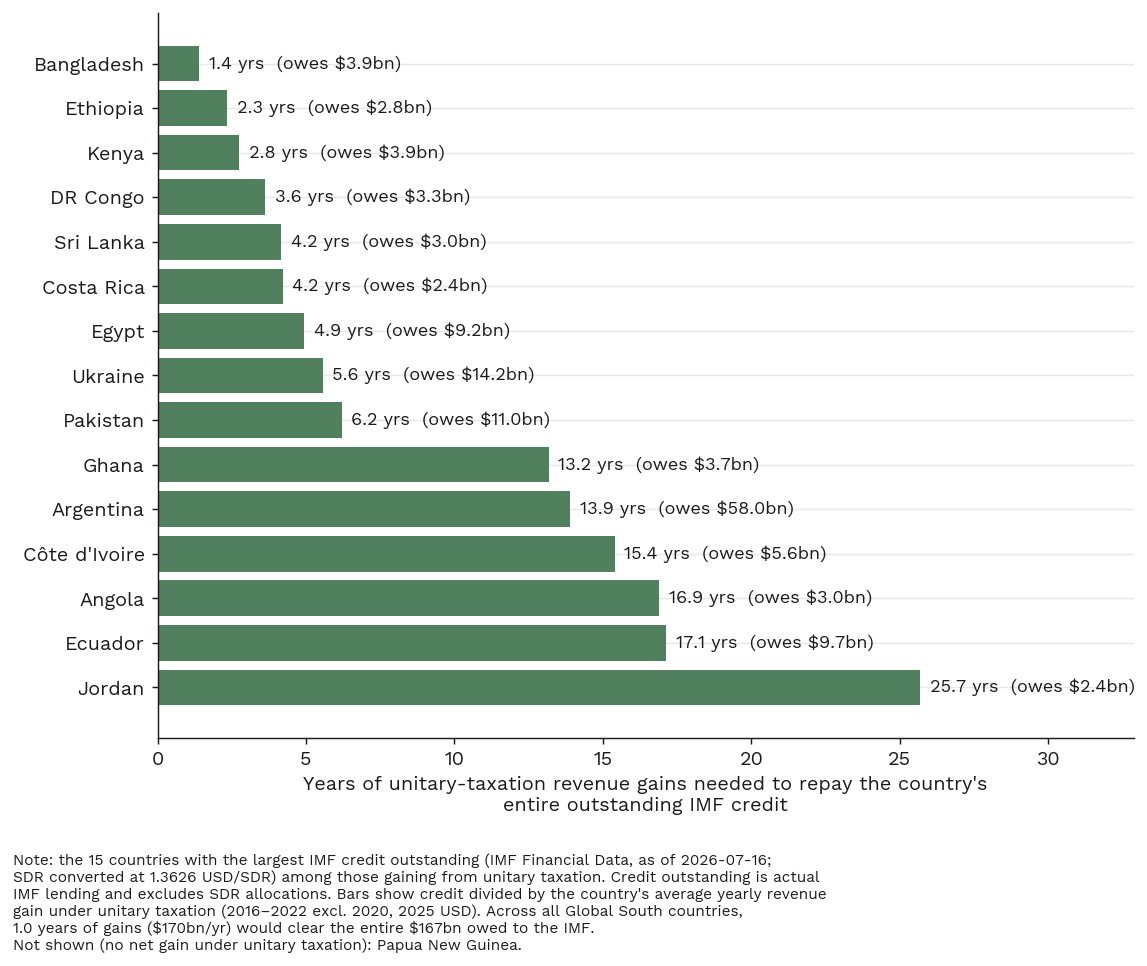
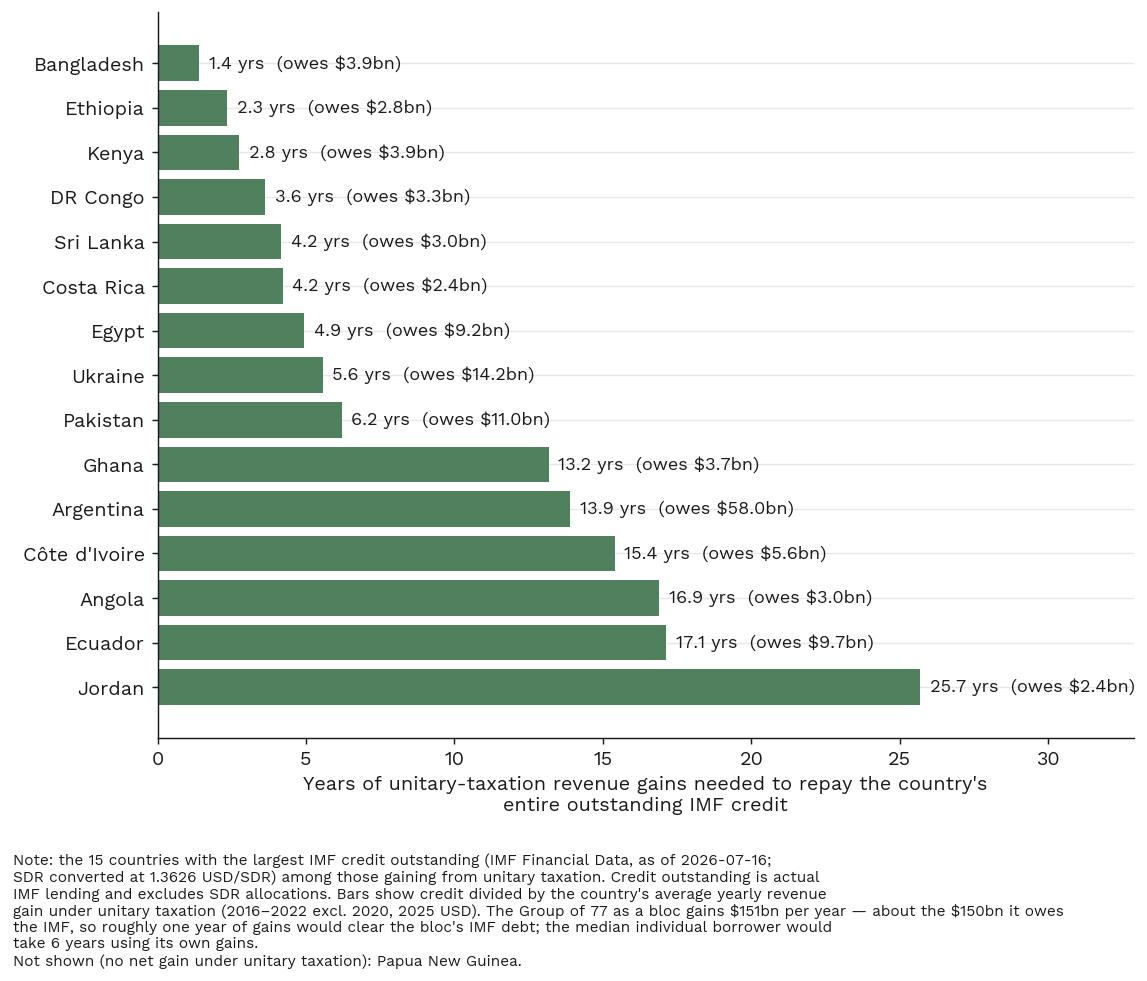
9t: pure country-level tables; G77 as the Global South definition
- Both deliverable tables are now pure country-level (one row per country +
  income group, only needed columns); dropped the SDR memo columns, the
  credit_year/flag, and the aggregate/summary rows and files.
- 'Global South' defined as the Group of 77 (data/raw/g77_members.csv, 134
  members, g77.org). Collective framing: the G77 bloc gains ~$151bn/yr vs
  ~$150bn owed to the IMF -> ~1.0 year (robust: 1.13 excl China, 0.93 excl
  hubs). Borrower self-financing (pooled 6.1 / median 6.4 yrs) reported
  alongside - the two differ only in population (big gainers barely borrow).
- Aggregates now console + figure-note only, not tables.

diff --git a/src/9t_ut_gains_vs_imf_debt_marshall.py b/src/9t_ut_gains_vs_imf_debt_marshall.py
@@ -69,6 +69,9 @@ IMF_API = ("https://api.worldbank.org/v2/sources/6/country/all/series/{series}"
 MARSHALL_CSV = _ROOT / "data" / "raw" / "marshall_plan_aid.csv"
 CPI_CSV = _ROOT / "data" / "raw" / "us_cpi_annual.csv"
 CPI_ANCHOR_YEAR = 1950                          # mid-period of 1948-52 disbursement
+# "Global South" = Group of 77 (the collective-framing denominator). China is a
+# full member; the group is styled "G77 and China".
+G77_CSV = _ROOT / "data" / "raw" / "g77_members.csv"
 
 # Official IMF TAD "Total IMF Credit Outstanding" snapshot, hand-downloaded
 # (the page blocks scripts). SDR-denominated; converted at the market SDR/USD
@@ -214,67 +217,55 @@ def load_imf_tad():
 
 
 def part1_imf(gains):
-    tad = load_imf_tad()                       # HEADLINE stock (official, current)
-    wb = load_imf_credit().rename(columns={"imf_credit_bn": "wb_credit_excl_sdr_bn"})
-    # scope: every Global South country with an estimate OR an IMF debt;
-    # countries not in the TAD list owe the IMF nothing (credit = 0)
-    m = wb.merge(tad, on="iso3", how="outer").merge(gains, on="iso3", how="left")
-    m["imf_credit_bn"] = m["imf_credit_bn"].fillna(0.0)
-    m = m[m["gain_bn"].notna() | (m["imf_credit_bn"] > 0)]
-    m["country"] = m["iso3"].map(cname)
+    tad = load_imf_tad()                       # HEADLINE stock (official IMF, current)
+    # console cross-check only: WB IDS credit-excl-SDR total vs the TAD total
+    # (different vintages, so approximate — keeps the cached WB series exercised)
+    try:
+        wb = load_imf_credit()
+        print(f"  cross-check: WB-IDS credit-excl-SDR total ${wb['imf_credit_bn'].sum():.0f}bn"
+              f" vs official TAD ${tad['imf_credit_bn'].sum():.0f}bn (vintages differ)")
+    except Exception as e:
+        print("  (WB cross-check skipped:", e, ")")
+
+    # affected = IMF borrower (in the TAD list) that appears in our UT analysis
+    m = tad.merge(gains, on="iso3", how="left")
+    m["country_name"] = m["iso3"].map(cname)
     m["years_to_repay"] = np.where(m["gain_bn"] > 0,
                                    m["imf_credit_bn"] / m["gain_bn"], np.nan)
-    m["gain_negative_or_zero"] = (m["gain_bn"] <= 0) | m["gain_bn"].isna()
+    aff = m[m["gain_bn"].notna()].copy()
 
-    cols = ["country", "iso3", "wb_income_group",
-            "imf_credit_bn", "gain_bn", "years_to_repay",
-            "wb_credit_excl_sdr_bn", "sdr_alloc_bn", "imf_liab_incl_sdr_bn",
-            "credit_year", "gain_negative_or_zero"]
-    out = m[cols].sort_values("imf_credit_bn", ascending=False)
-
-    # aggregates: all IDS debtors with estimates, and per income group. The
-    # pooled ratio (sum credit / sum gain) is the headline; the unweighted
-    # country mean/median (only countries with positive gain AND debt) are
-    # carried alongside — the mean explodes on near-zero-gain countries
-    # (Haiti ~1,700 yrs), so the median is the quotable "typical country".
-    agg_rows = []
-    scope = m.dropna(subset=["gain_bn"])
-    for label, sub in ([("ALL Global South countries", scope)] +
-                       [(f"income group: {g}", scope[scope.wb_income_group == g])
-                        for g in sorted(scope.wb_income_group.dropna().unique())]):
-        credit, gain = sub["imf_credit_bn"].sum(), sub["gain_bn"].sum()
-        # country averages: positive gain AND a real credit position (> $10M —
-        # excludes the ~zero rows of countries without IMF programs)
-        yc = sub.loc[(sub["gain_bn"] > 0) & (sub["imf_credit_bn"] > 0.01),
-                     "years_to_repay"]
-        agg_rows.append(dict(country=label, iso3="", wb_income_group="",
-                             credit_year="", imf_credit_bn=credit,
-                             sdr_alloc_bn=sub["sdr_alloc_bn"].sum(),
-                             imf_liab_incl_sdr_bn=sub["imf_liab_incl_sdr_bn"].sum(),
-                             gain_bn=gain,
-                             years_to_repay=(credit / gain if gain > 0 else np.nan),
-                             years_to_repay_country_median=yc.median(),
-                             years_to_repay_country_mean=yc.mean(),
-                             n_countries_in_avg=len(yc),
-                             gain_negative_or_zero=gain <= 0))
-    out = pd.concat([pd.DataFrame(agg_rows), out], ignore_index=True).round(2)
-    out = out[["country", "iso3", "wb_income_group",
-               "imf_credit_bn", "gain_bn", "years_to_repay",
-               "years_to_repay_country_median", "years_to_repay_country_mean",
-               "n_countries_in_avg",
-               "wb_credit_excl_sdr_bn", "sdr_alloc_bn", "imf_liab_incl_sdr_bn",
-               "credit_year", "gain_negative_or_zero"]]
+    # ── the deliverable: a pure country-level table (credit-only, no SDR) ──
+    ct = (aff.rename(columns={"wb_income_group": "income_group",
+                              "imf_credit_bn": "imf_credit_outstanding_bn",
+                              "gain_bn": "ut_revenue_gain_bn"})
+             [["country_name", "iso3", "income_group",
+               "imf_credit_outstanding_bn", "ut_revenue_gain_bn", "years_to_repay"]]
+             .sort_values("imf_credit_outstanding_bn", ascending=False).round(2))
     f = TABLES / "ut_gains_vs_imf_credit.csv"
-    out.to_csv(f, index=False)
-    print(f"wrote {f}")
-    print(out.head(8).to_string(index=False))
+    ct.to_csv(f, index=False)
+    print(f"wrote {f}  ({len(ct)} countries)")
 
-    # figure: the largest IMF debtors with a positive UT gain
-    top = (m[(m.gain_bn > 0)].sort_values("imf_credit_bn", ascending=False)
+    # aggregates — console + figure note only, NOT a deliverable table.
+    # Two population-consistent statements:
+    #  (a) borrower self-financing: pooled/median over the IMF borrowers only;
+    #  (b) G77 collective: the whole bloc's UT gains vs the whole bloc's IMF debt.
+    all_credit, all_gain = aff["imf_credit_bn"].sum(), aff["gain_bn"].sum()
+    yc = aff.loc[aff["gain_bn"] > 0, "years_to_repay"]
+    g77 = set(pd.read_csv(G77_CSV, comment="#")["iso3"])
+    g77_gain = gains.loc[gains["iso3"].isin(g77), "gain_bn"].sum()
+    g77_credit = tad.loc[tad["iso3"].isin(g77), "imf_credit_bn"].sum()
+    print(f"  IMF borrower self-financing: weighted(pooled) {all_credit / all_gain:.2f} | "
+          f"median {yc.median():.2f} | mean {yc.mean():.2f} (n={len(yc)}); "
+          f"borrowers' credit ${all_credit:.0f}bn, gain ${all_gain:.0f}bn/yr")
+    print(f"  G77 collective: gains ${g77_gain:.0f}bn/yr vs IMF credit ${g77_credit:.0f}bn "
+          f"-> {g77_credit / g77_gain:.2f} years")
+
+    # figure: the largest borrowers with a positive UT gain
+    top = (aff[aff.gain_bn > 0].sort_values("imf_credit_bn", ascending=False)
            .head(15).sort_values("years_to_repay"))
-    dropped = m[(m.gain_bn <= 0)].sort_values("imf_credit_bn", ascending=False)
+    dropped = aff[aff.gain_bn <= 0].sort_values("imf_credit_bn", ascending=False)
     fig, ax = plt.subplots(figsize=(9, 6.5))
-    bars = ax.barh(top["country"], top["years_to_repay"], color=POSITIVE)
+    bars = ax.barh(top["country_name"], top["years_to_repay"], color=POSITIVE)
     ax.bar_label(bars,
                  labels=[f" {y:,.1f} yrs  (owes ${c:,.1f}bn)"
                          for y, c in zip(top["years_to_repay"], top["imf_credit_bn"])],
@@ -283,20 +274,19 @@ def part1_imf(gains):
                   "entire outstanding IMF credit", fontsize=11)
     ax.margins(x=0.28)
     ax.invert_yaxis()
-    all_credit = scope["imf_credit_bn"].sum()
-    all_gain = scope["gain_bn"].sum()
     note = ("Note: the 15 countries with the largest IMF credit outstanding (IMF Financial "
             f"Data, as of {TAD_ASOF};\nSDR converted at {SDR_USD} USD/SDR) among those "
             "gaining from unitary taxation. Credit outstanding is actual\nIMF lending and "
             "excludes SDR allocations. Bars show credit divided by the country's average "
             "yearly revenue\ngain under unitary taxation (2016–2022 excl. 2020, 2025 USD). "
-            f"Across all Global South countries,\n{all_credit / all_gain:,.1f} years of "
-            f"gains (\\${all_gain:,.0f}bn/yr) would clear the entire "
-            f"\\${all_credit:,.0f}bn owed to the IMF.")
+            f"The Group of 77 as a bloc gains \\${g77_gain:,.0f}bn per year — about the "
+            f"\\${g77_credit:,.0f}bn it owes\nthe IMF, so roughly one year of gains would "
+            f"clear the bloc's IMF debt; the median individual borrower would\ntake "
+            f"{yc.median():,.0f} years using its own gains.")
     big_dropped = dropped[dropped["imf_credit_bn"] > 1]
     if len(big_dropped):
         note += ("\nNot shown (no net gain under unitary taxation): "
-                 + ", ".join(big_dropped["country"].head(5)) + ".")
+                 + ", ".join(big_dropped["country_name"].head(5)) + ".")
     fig.text(0.01, -0.02, note, fontsize=8.5, va="top")
     plt.tight_layout()
     f = FIGURES / "fig_ut_gains_vs_imf_credit.png"
@@ -317,12 +307,19 @@ def part2_marshall(gains):
                      / px.loc[CPI_ANCHOR_YEAR, "gdpdef_2017100"])
 
     by_iso = gains.set_index("iso3")["gain_bn"]
+    ig_by_iso = gains.set_index("iso3")["wb_income_group"]
 
     def gain_for(iso3):
         if pd.isna(iso3) or iso3 == "":
             return np.nan                       # Regional row
         return sum(by_iso.get(p, np.nan) for p in str(iso3).split("+"))
 
+    def ig_for(iso3):
+        if pd.isna(iso3) or iso3 == "":
+            return ""
+        return ig_by_iso.get(str(iso3).split("+")[0], "")
+
+    aid["income_group"] = aid["iso3"].apply(ig_for)
     aid["gain_bn"] = aid["iso3"].apply(gain_for)          # annual avg, bn 2025 USD
     aid["cum_gain_bn"] = aid["gain_bn"] * N_YEARS
     for src, dst in [("aid_total_musd", "aid_total_2025bn"),
@@ -330,47 +327,44 @@ def part2_marshall(gains):
         aid[dst] = aid[src] * cpi_factor / 1e3
     aid["aid_total_2025bn_gdpdef"] = aid["aid_total_musd"] * gdpdef_factor / 1e3
     aid["marshall_plans_per_6yr"] = aid["cum_gain_bn"] / aid["aid_total_2025bn"]
-    aid["marshall_plans_per_6yr_gdpdef"] = (aid["cum_gain_bn"]
-                                            / aid["aid_total_2025bn_gdpdef"])
     aid["years_per_marshall_plan"] = np.where(
         aid["gain_bn"] > 0, aid["aid_total_2025bn"] / aid["gain_bn"], np.nan)
-    aid["years_per_marshall_plan_grants"] = np.where(
-        aid["gain_bn"] > 0, aid["aid_grants_2025bn"] / aid["gain_bn"], np.nan)
 
-    # aggregate: every recipient (Regional aid counts in the denominator)
+    # group totals (Regional aid counts in the denominator; its gain is NaN)
     tot_aid, tot_grants = aid["aid_total_2025bn"].sum(), aid["aid_grants_2025bn"].sum()
     tot_aid_gdpdef = aid["aid_total_2025bn_gdpdef"].sum()
-    tot_gain = aid["gain_bn"].sum(skipna=True)            # Regional row is NaN
-    # country mean/median of years-per-plan across recipients that gain
-    # (losers never accumulate a plan; they enter only the pooled aggregate)
-    ypc = aid.loc[aid["gain_bn"] > 0, "years_per_marshall_plan"].dropna()
-    agg = dict(recipient="ALL RECIPIENTS (aggregate)", iso3="",
-               aid_total_musd=aid["aid_total_musd"].sum(),
-               grants_musd=aid["grants_musd"].sum(),
-               aid_total_2025bn=tot_aid, aid_grants_2025bn=tot_grants,
-               aid_total_2025bn_gdpdef=tot_aid_gdpdef,
-               gain_bn=tot_gain, cum_gain_bn=tot_gain * N_YEARS,
-               marshall_plans_per_6yr=tot_gain * N_YEARS / tot_aid,
-               marshall_plans_per_6yr_gdpdef=tot_gain * N_YEARS / tot_aid_gdpdef,
-               years_per_marshall_plan=tot_aid / tot_gain,
-               years_per_marshall_plan_grants=tot_grants / tot_gain,
-               years_per_plan_country_median=ypc.median(),
-               years_per_plan_country_mean=ypc.mean(),
-               n_countries_in_avg=len(ypc))
-    out = pd.concat([pd.DataFrame([agg]), aid], ignore_index=True)
-    keep = ["recipient", "iso3", "aid_total_musd", "grants_musd", "loans_musd",
-            "aid_total_2025bn", "aid_grants_2025bn", "aid_total_2025bn_gdpdef",
-            "gain_bn", "cum_gain_bn",
-            "marshall_plans_per_6yr", "marshall_plans_per_6yr_gdpdef",
-            "years_per_marshall_plan",
-            "years_per_marshall_plan_grants",
-            "years_per_plan_country_median", "years_per_plan_country_mean",
-            "n_countries_in_avg", "confidence", "note"]
-    out = out[[c for c in keep if c in out.columns]].round(2)
+    tot_gain = aid["gain_bn"].sum(skipna=True)
+
+    # ── main deliverable: pure country-level table (recipients + income group) ─
+    ct = (aid[aid["iso3"].notna() & (aid["iso3"] != "")]
+          .rename(columns={"aid_total_2025bn": "marshall_aid_2025bn",
+                           "aid_grants_2025bn": "marshall_aid_grants_2025bn",
+                           "aid_total_2025bn_gdpdef": "marshall_aid_2025bn_gdpdef",
+                           "gain_bn": "ut_gain_annual_bn",
+                           "cum_gain_bn": "ut_gain_6yr_bn"})
+          [["recipient", "iso3", "income_group",
+            "marshall_aid_2025bn", "marshall_aid_grants_2025bn",
+            "marshall_aid_2025bn_gdpdef",
+            "ut_gain_annual_bn", "ut_gain_6yr_bn",
+            "marshall_plans_per_6yr", "years_per_marshall_plan"]]
+          .sort_values("ut_gain_6yr_bn", ascending=False).round(2))
     f = TABLES / "ut_gains_vs_marshall_plan.csv"
-    out.to_csv(f, index=False)
-    print(f"wrote {f}")
-    print(out.head(4).to_string(index=False))
+    ct.to_csv(f, index=False)
+    print(f"wrote {f}  ({len(ct)} recipients)")
+    print(ct.to_string(index=False))
+
+    # aggregates — console + figure note only, NOT a deliverable table. The
+    # three averages (weighted/pooled, median, mean) over recipients that gain
+    # (losers never accumulate a plan). Headline = the pooled aggregate.
+    ypc = aid.loc[aid["gain_bn"] > 0, "years_per_marshall_plan"].dropna()
+    ppc = aid.loc[aid["gain_bn"] > 0, "marshall_plans_per_6yr"].dropna()
+    print(f"  Marshall plans-per-6yr (total, CPI): weighted(pooled) "
+          f"{tot_gain * N_YEARS / tot_aid:.2f} | median {ppc.median():.2f} | "
+          f"mean {ppc.mean():.2f} (n={len(ypc)})")
+    print(f"  Marshall years-per-plan  (total, CPI): weighted {tot_aid / tot_gain:.2f} | "
+          f"median {ypc.median():.2f} | mean {ypc.mean():.2f}")
+    print(f"    weighted plans-per-6yr — grants-only {tot_gain * N_YEARS / tot_grants:.2f}, "
+          f"GDP-deflator {tot_gain * N_YEARS / tot_aid_gdpdef:.2f}")
 
     # ── figure 1 (headline): aggregate — the plan vs what UT delivers ────────
     fig, ax = plt.subplots(figsize=(8, 5))

diff --git a/docs/imf_marshall_comparison_sources.md b/docs/imf_marshall_comparison_sources.md
@@ -45,9 +45,27 @@ average = deflated sum ÷ 6.
   its inclusion would only *shrink* the pooled ratio, so exclusion is
   conservative) plus per-`wb_income_group` rows; country mean/median over
   borrowers with credit > $10M and positive gains.
-- **Headline result**: ≈ **1.0 year** of Global South UT gains ($170bn/yr)
-  clears the entire $167bn owed to the IMF (allocations-inclusive footnote:
-  $382bn, 2.2 years). Median borrower ≈ 6.4 years.
+- **Two population-consistent headline framings** (numerator and denominator
+  over the *same* set of countries):
+  - **G77 collective** (the "Global South" bloc, `data/raw/g77_members.csv`):
+    the G77 gains **≈$151bn/yr** and owes the IMF **≈$150bn** → **≈1.0 year**
+    of the bloc's gains would clear its entire IMF debt. Robust to variants:
+    0.99 incl. China, 1.13 excl. China, 0.93 excl. the hub members.
+  - **Borrower self-financing** (only the ~82 countries that actually
+    borrow): their *own* gains ($27bn/yr) vs their credit ($167bn) →
+    **6.1 years** pooled, **6.4** median (mean 53 is outlier-driven — ignore).
+  The two differ only in population: the big UT gainers (India $45bn, China
+  $18bn, Brazil $18bn) barely borrow from the IMF, so including them (G77
+  bloc) shrinks the ratio to ~1 year. Both are correct; pick per framing.
+  Allocations-inclusive footnote: total liability $382bn, 2.2 years.
+- **"Global South" = Group of 77** (`data/raw/g77_members.csv`, 134 members,
+  source <https://www.g77.org/doc/members.html>, retrieved 2026-07-17; China
+  is a full member). Preferred over WB income groups because it is an explicit
+  political bloc rather than an income threshold. NB it includes high-income
+  Gulf states (SAU/QAT/ARE/KWT) and several investment-hub jurisdictions
+  (ARE/PAN/MUS/BHS/SGP/SYC/BHR) — the `is_china` flag and the hub membership
+  let you strip either. Largest IMF borrowers NOT in the G77: Ukraine
+  ($14.2bn), Serbia, Moldova, Georgia.
 - **Decisions** (user, 2026-07-17): IMF credit **stock only**, excl. SDR
   allocations. Explored and rejected: IMF debt service `DT.TDS.DIMF.CD`
   (~$45bn/yr, gains = 4.0×), all-creditor debt service `DT.TDS.DECT.CD`
